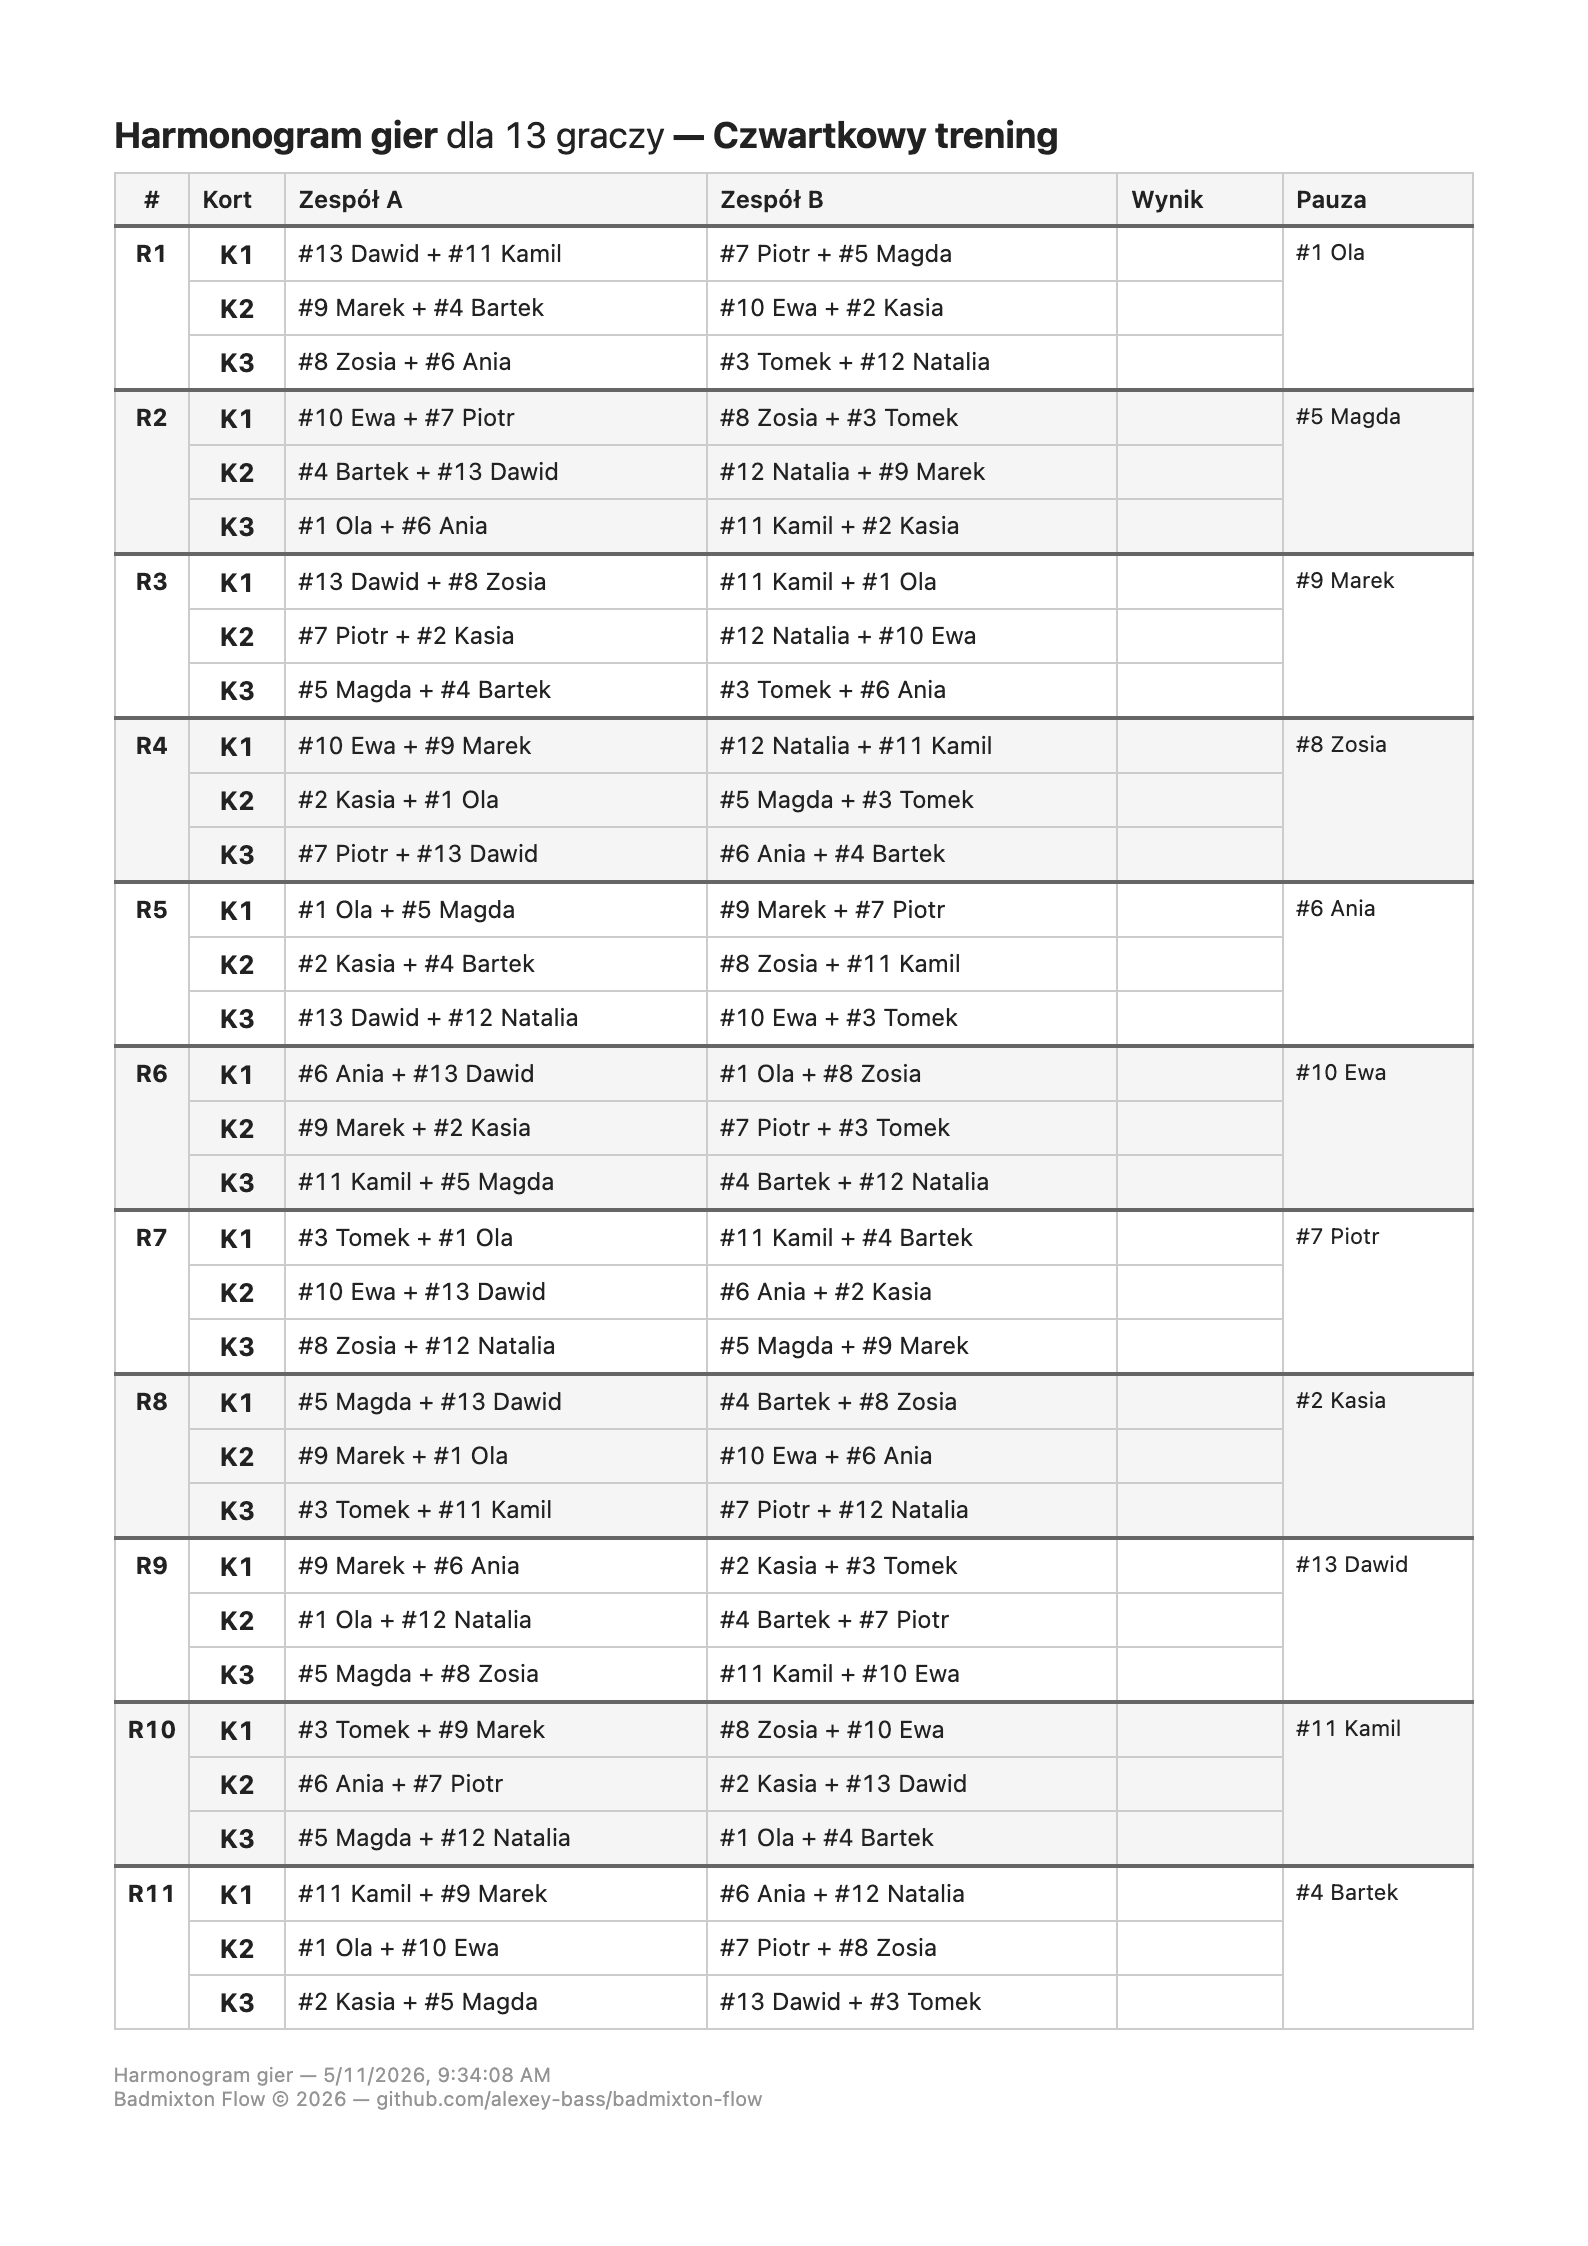
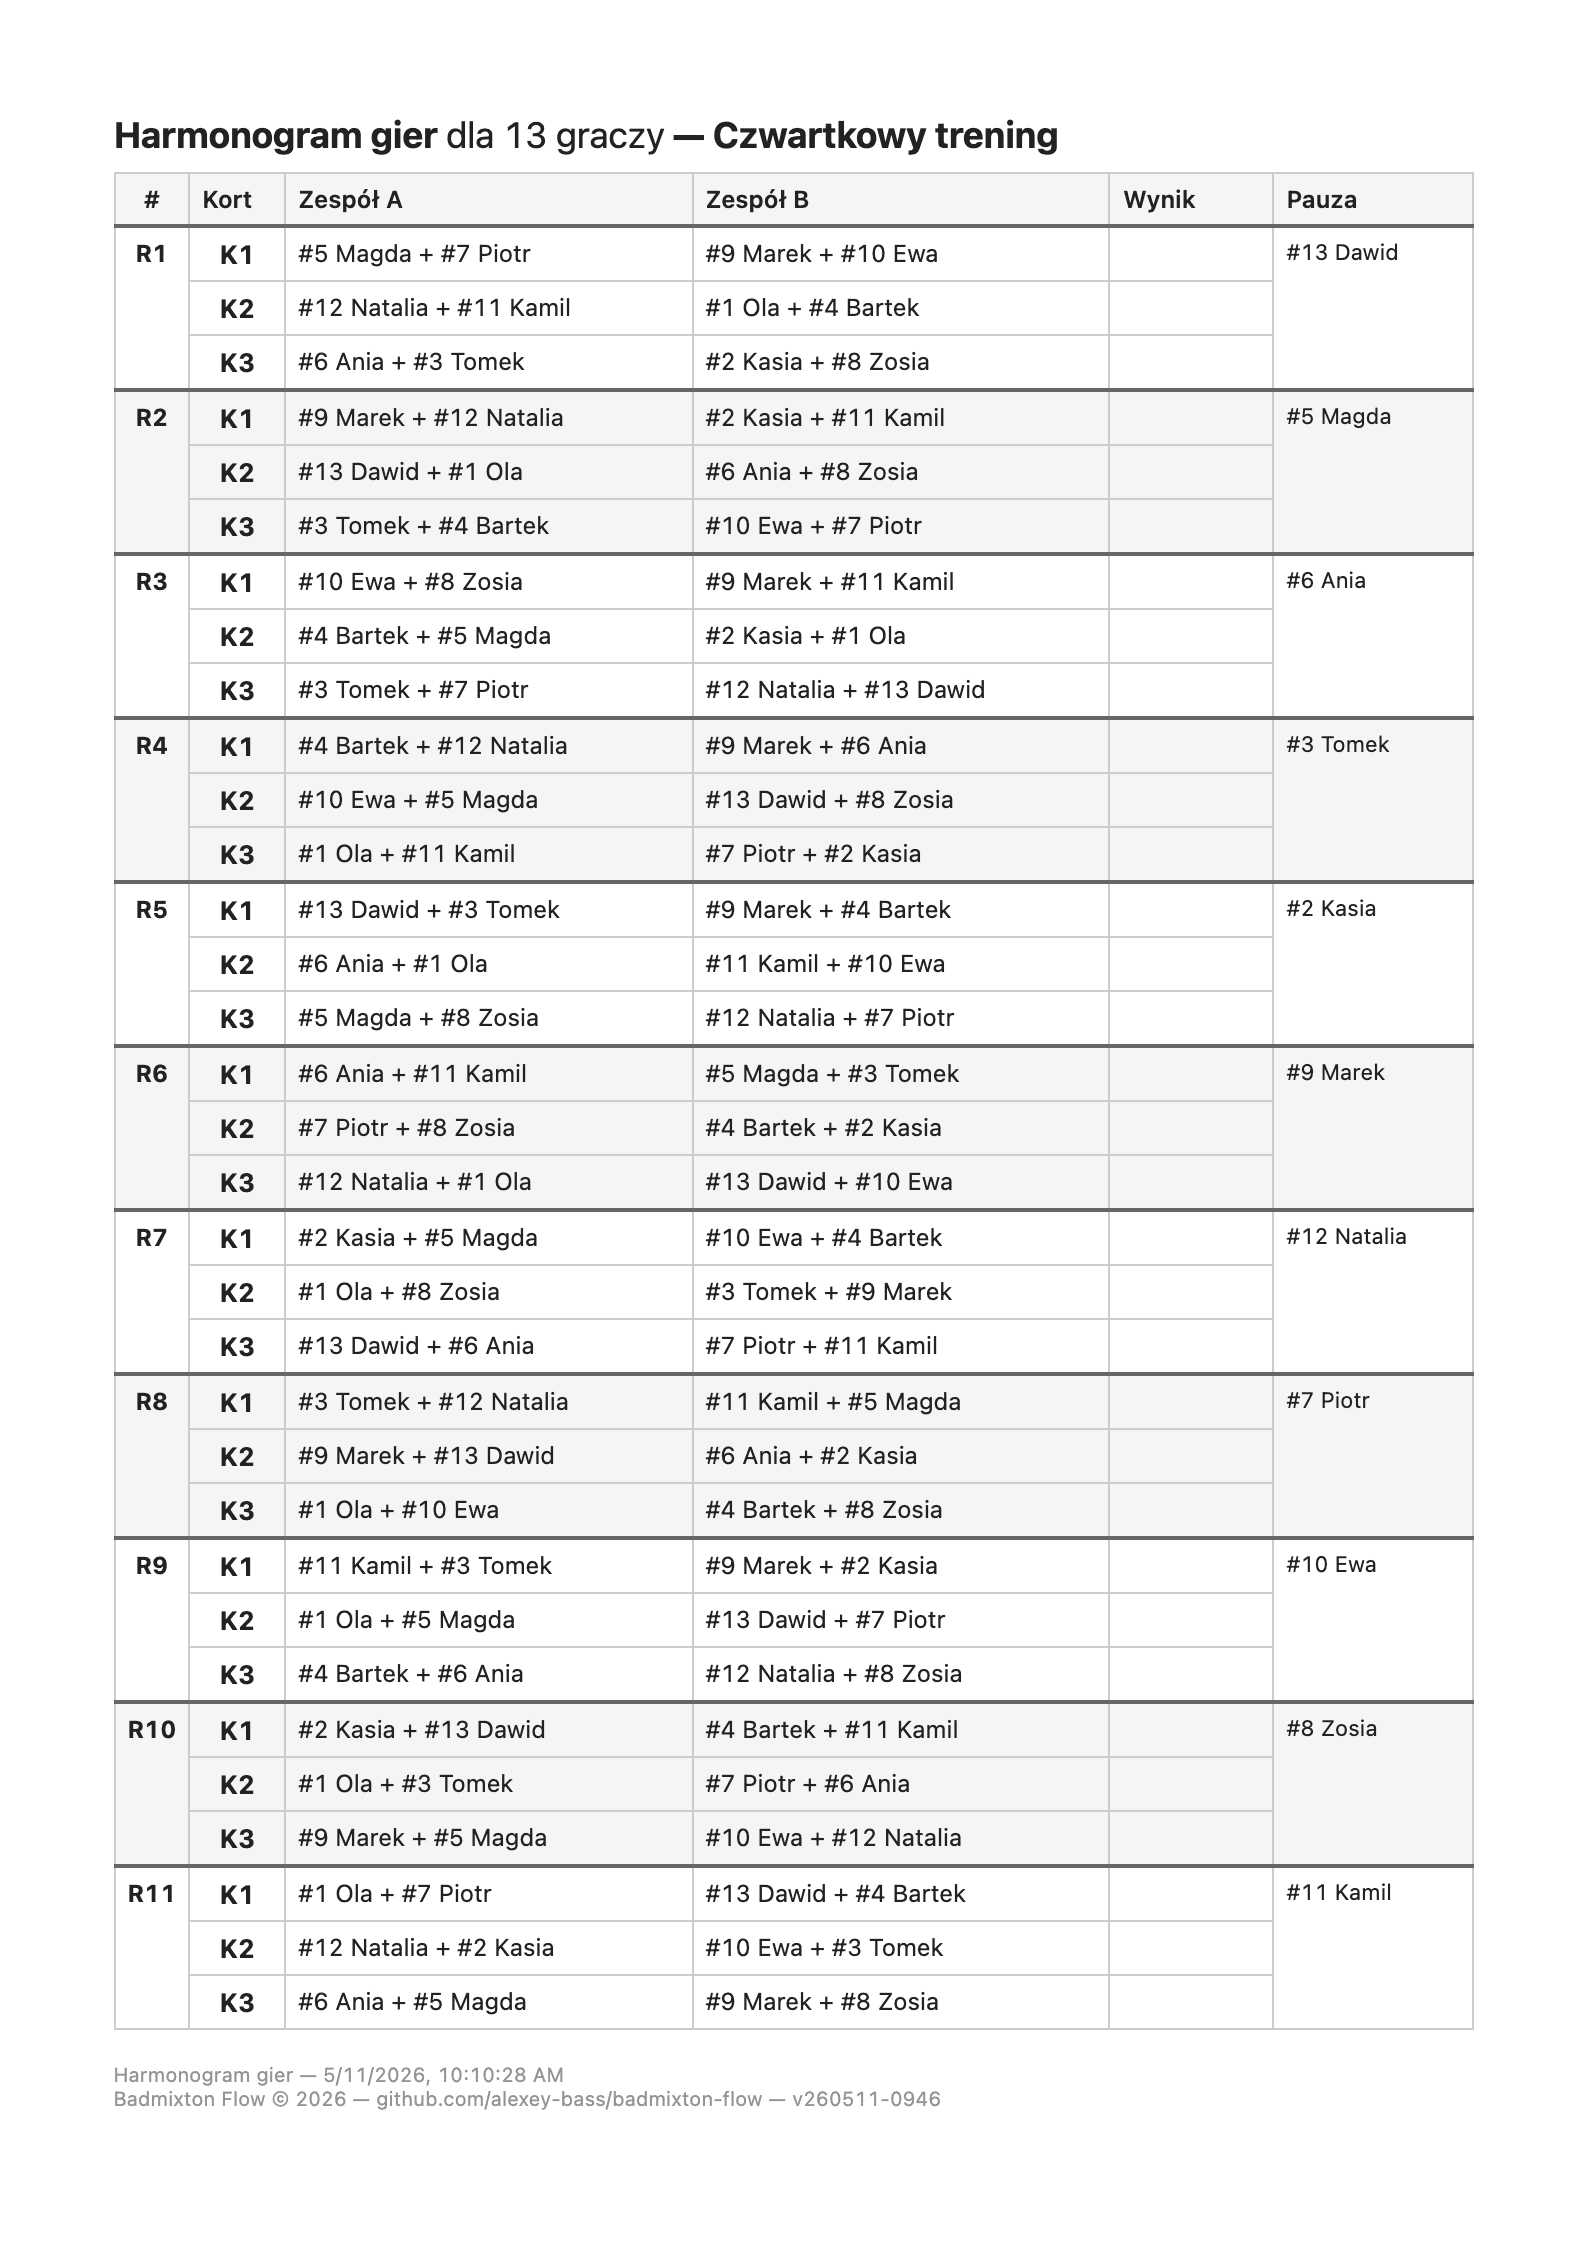
Show app version in print schedule footer
A printed schedule outlives the screen, so include App.VERSION at the
end of the footer line for traceability — appended after the GitHub
link to keep the existing line shape.

Fixes #54

diff --git a/index.html b/index.html
@@ -5,7 +5,7 @@
   <meta name="viewport" content="width=device-width, initial-scale=1.0">
   <title>Badmixton Flow</title>
   <meta name="description" content="Manage player queue and court assignments during amateur badminton 2x2 sessions. Track scores, auto-suggest teams, sync across devices.">
-  <meta name="version" content="v260511-0946">
+  <meta name="version" content="v260511-1012">
   <link rel="preconnect" href="https://www.gstatic.com" crossorigin>
   <link rel="preconnect" href="https://www.googletagmanager.com" crossorigin>
   <link rel="icon" type="image/png" sizes="16x16" href="assets/img/favicon-16.png">
@@ -291,7 +291,7 @@
   <script defer src="https://www.gstatic.com/firebasejs/10.12.0/firebase-app-compat.js"></script>
   <script defer src="https://www.gstatic.com/firebasejs/10.12.0/firebase-database-compat.js"></script>
   <script defer src="assets/js/i18n.js?v=51"></script>
-  <script defer src="assets/js/app.js?v=93"></script>
+  <script defer src="assets/js/app.js?v=94"></script>
   <script>
     // Service worker is OFF by default — stale caches hurt more than offline
     // mode helps for this app. Opt in with localStorage.badminton_sw = '1'.

diff --git a/assets/js/app.js b/assets/js/app.js
@@ -5981,7 +5981,7 @@ App.UI = {
       gameRows +
       '</tbody></table>' +
       '<div class="footer">' + App.t('printTitle') + ' — ' + new Date().toLocaleString() +
-      '<br>Badmixton Flow &copy; ' + new Date().getFullYear() + ' — github.com/alexey-bass/badmixton-flow</div>' +
+      '<br>Badmixton Flow &copy; ' + new Date().getFullYear() + ' — github.com/alexey-bass/badmixton-flow — ' + App.VERSION + '</div>' +
       '</body></html>';
 
     var w = window.open('', '_blank');

diff --git a/service-worker.js b/service-worker.js
@@ -1,6 +1,6 @@
 // Service Worker — offline-first caching for Badmixton Flow
 // Cache version is bumped by the pre-commit hook via CACHE_VERSION below.
-var CACHE_VERSION = 100;
+var CACHE_VERSION = 101;
 var CACHE_NAME = 'badmixton-v' + CACHE_VERSION;
 
 var APP_SHELL = [
